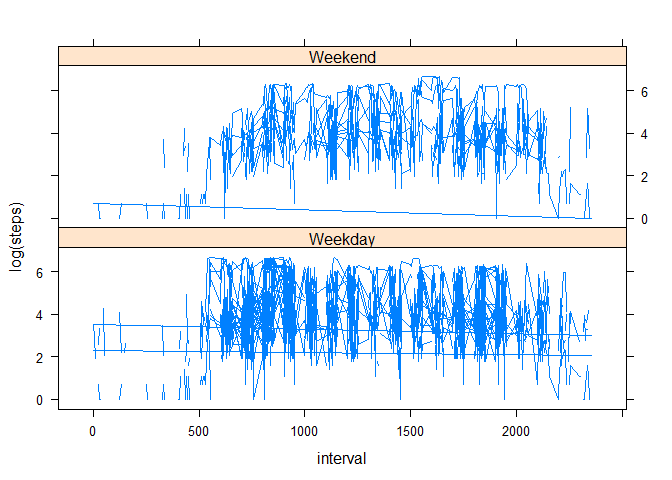
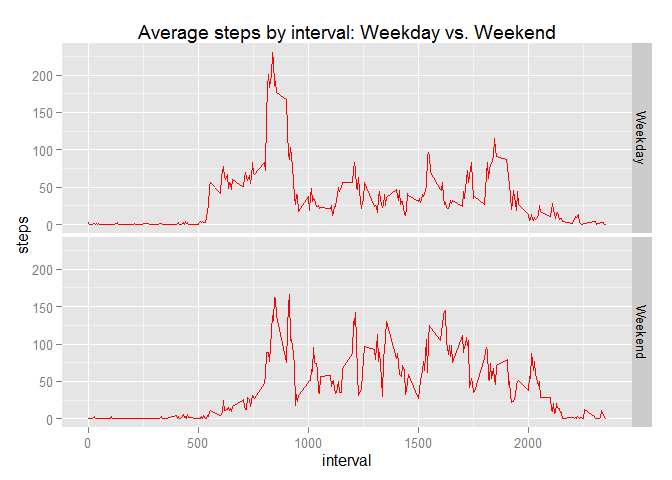
ggplot replaces qplot
we have a near complete assignment, Houston

diff --git a/PA1_template.html b/PA1_template.html
@@ -177,14 +177,12 @@ for(i in 1:nrow(activity_sub)){
     
 }
 
-require(lattice, quietly = TRUE)
-xyplot(log(steps) ~ interval | day_type, data = activity_sub, layout = c(1,2), type = &quot;l&quot;)</code></pre>
[1 lines of base64/hex data omitted]
-<pre class="r"><code>require(ggplot2, warn.conflicts = FALSE)</code></pre>
+
+require(ggplot2, warn.conflicts = FALSE)</code></pre>
 <pre><code>## Loading required package: ggplot2</code></pre>
-<pre class="r"><code>q &lt;- qplot(interval, steps, data = activity_sub, facets = day_type~., geom = &quot;line&quot;)
-q</code></pre>
[1 lines of base64/hex data omitted]
+<pre class="r"><code>g &lt;- ggplot(data = activity_sub, mapping = aes(interval, steps))
+g + facet_grid(day_type~.) + stat_summary(fun.y=&quot;mean&quot;, colour=&quot;red&quot;, geom=&quot;line&quot;) + labs(title = &quot;Average steps by interval: Weekday vs. Weekend&quot;)</code></pre>
[1 lines of base64/hex data omitted]
 </div>
 
 

diff --git a/PA1_template.md b/PA1_template.md
@@ -177,14 +177,7 @@ for(i in 1:nrow(activity_sub)){
     
 }
 
-require(lattice, quietly = TRUE)
-xyplot(log(steps) ~ interval | day_type, data = activity_sub, layout = c(1,2), type = "l")
-```
 
-![](PA1_template_files/figure-html/unnamed-chunk-9-1.png) 
-# Using ggplot:
-
-```r
 require(ggplot2, warn.conflicts = FALSE)
 ```
 
@@ -193,9 +186,9 @@ require(ggplot2, warn.conflicts = FALSE)
 ```
 
 ```r
-q <- qplot(interval, steps, data = activity_sub, facets = day_type~., geom = "line")
-q
+g <- ggplot(data = activity_sub, mapping = aes(interval, steps))
+g + facet_grid(day_type~.) + stat_summary(fun.y="mean", colour="red", geom="line") + labs(title = "Average steps by interval: Weekday vs. Weekend")
 ```
 
-![](PA1_template_files/figure-html/unnamed-chunk-10-1.png) 
+![](PA1_template_files/figure-html/unnamed-chunk-9-1.png) 
 
